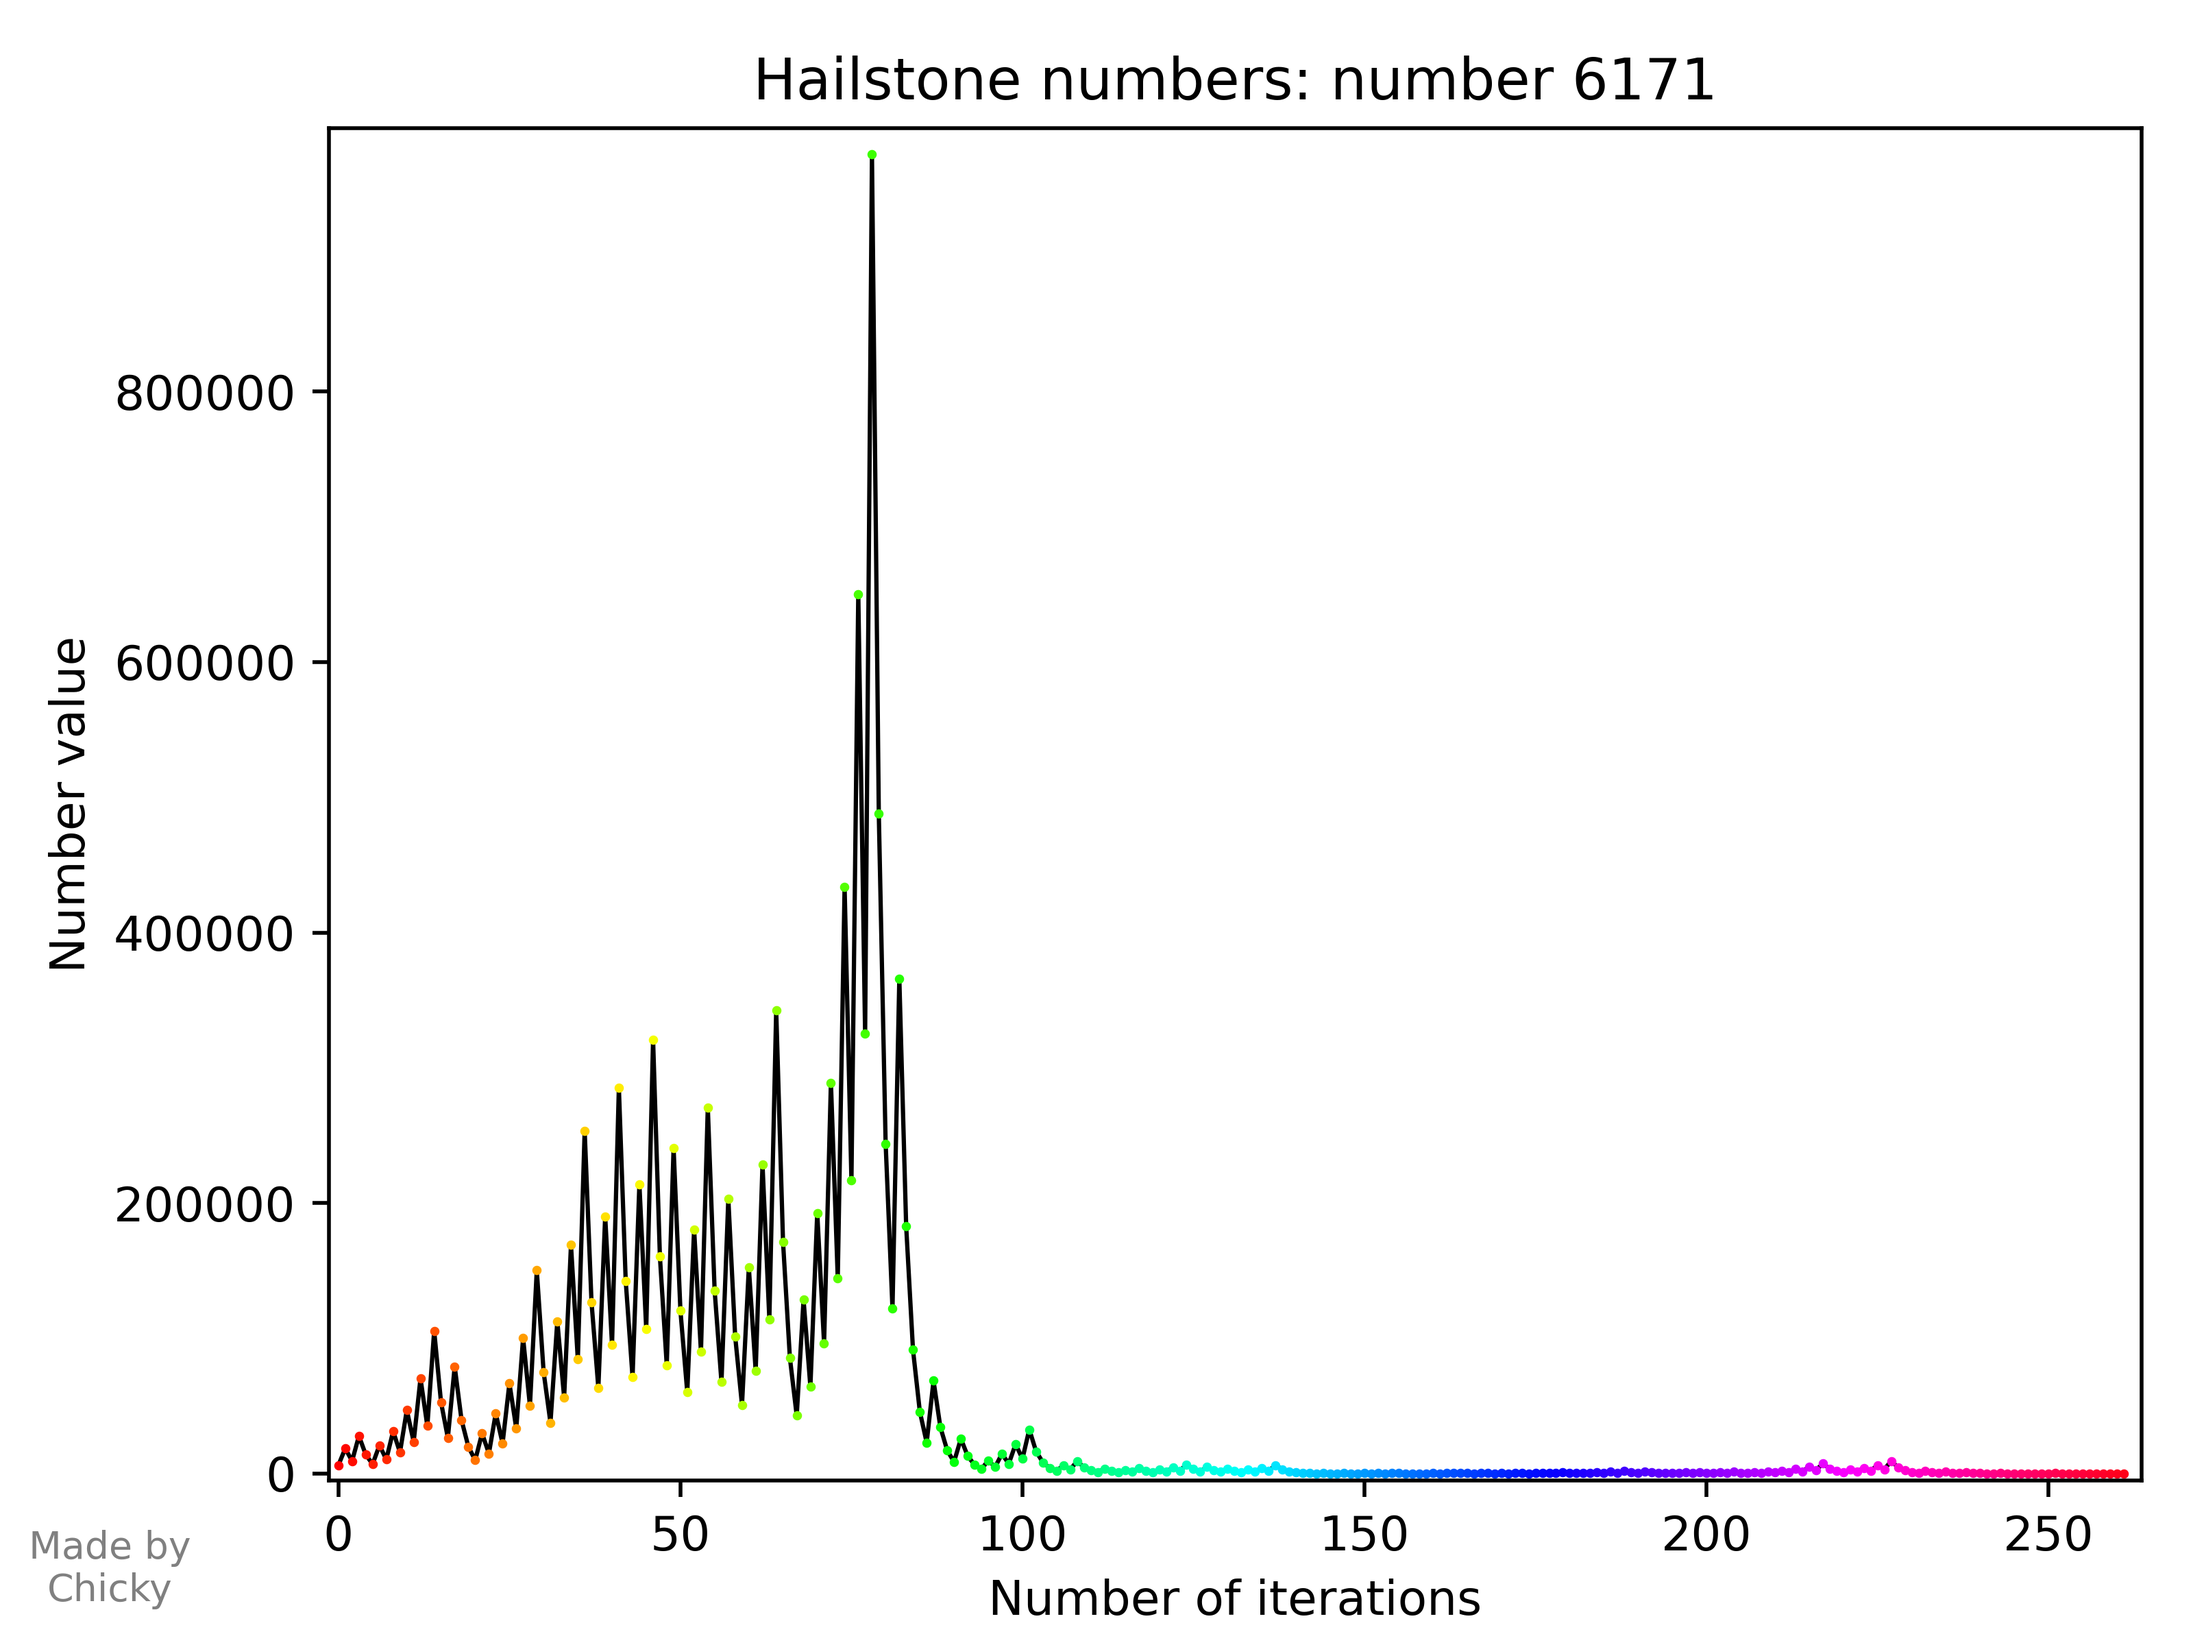
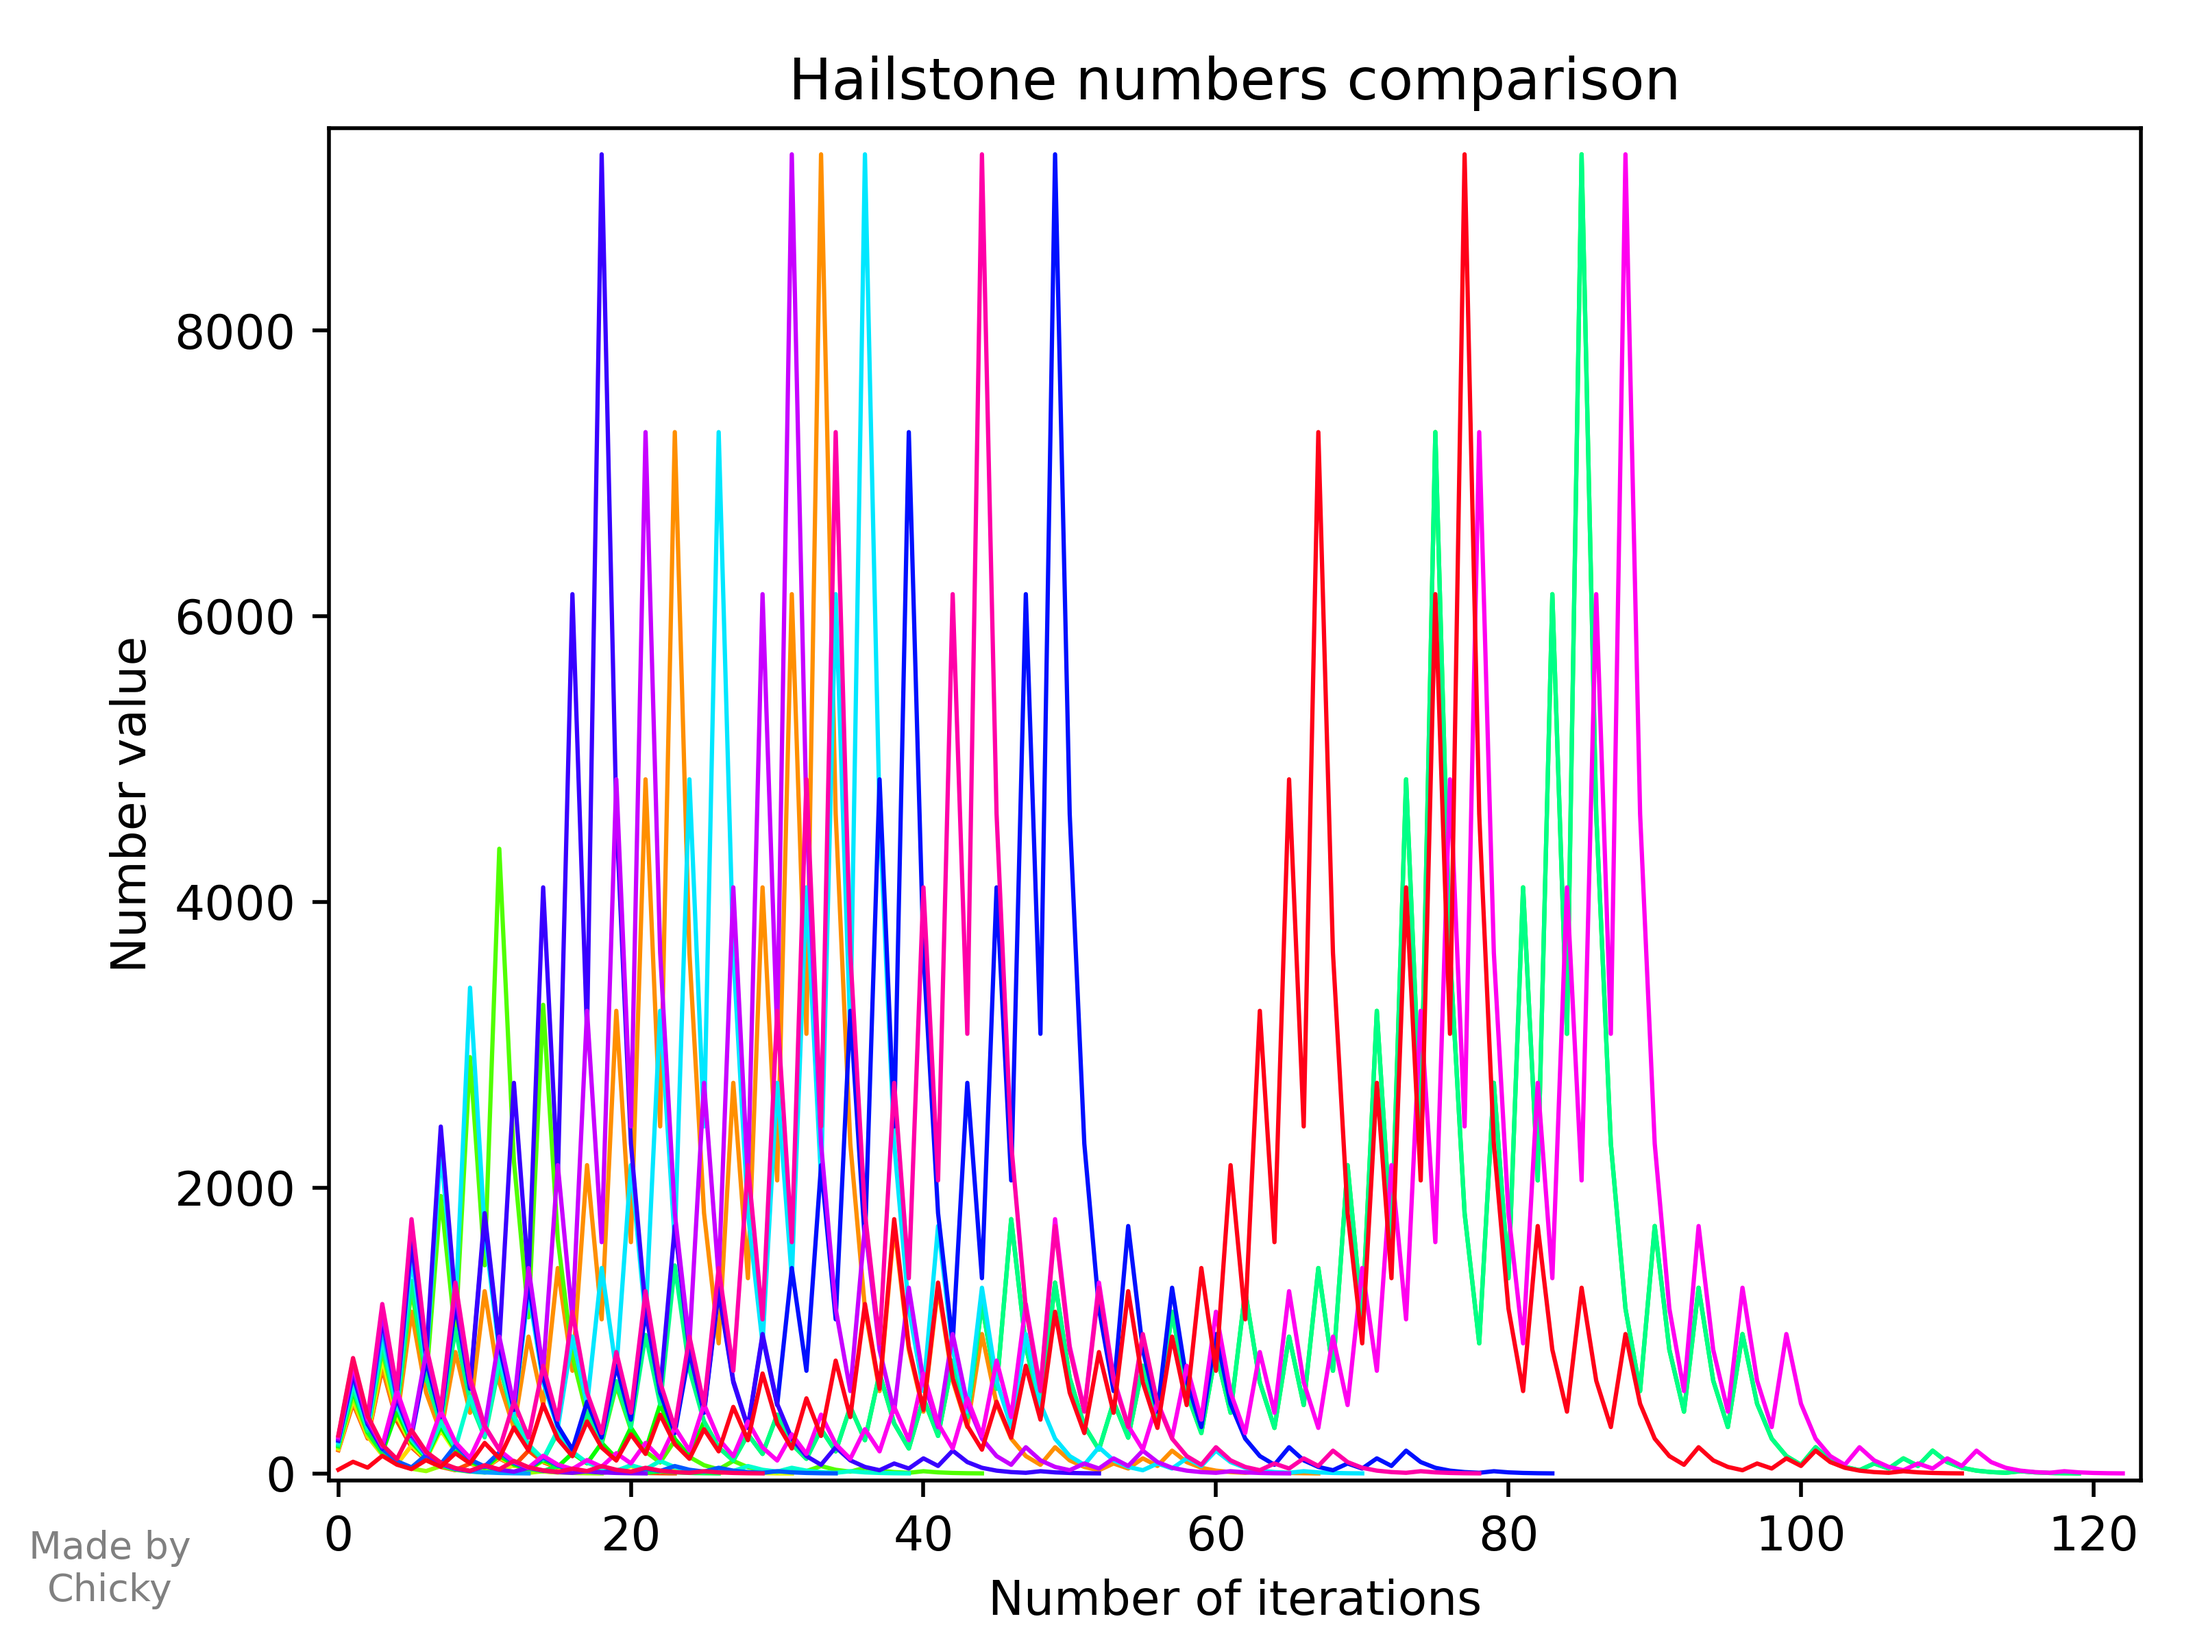
fnished project

diff --git a/main.py b/main.py
@@ -1,47 +1,64 @@
-import matplotlib as mpl 
+import matplotlib as mpl
 mpl.use('Agg')
-import matplotlib.pyplot as plt 
-n = 6171
+import matplotlib.pyplot as plt
+
 plt.xlabel('Number of iterations')
 plt.ylabel('Number value')
-plt.title('Hailstone numbers: number %i' % n)
+plt.title('Hailstone numbers comparison')
 
 def get_cmap(n, name='hsv'):
-    '''Returns a function that maps each index in 0, 1, ..., n-1 to a distinct 
-    RGB color; the keyword argument name must be a standard mpl colormap name.'''
     return plt.cm.get_cmap(name, n)
 
-count = 0
-Arr = [[0],[n]]
+maxlist = [[], []]
 
-while n > 1:
-    print(n)
-    if n % 2 == 0:
-        n = n / 2
-    else:
-        n = ((n * 3) + 1)
-    count += 1
-    Arr[0].insert(count,count)
-    Arr[1].insert(count,n)
-    
-print(n)
-x = Arr[0]
-y = Arr[1]
-plt.plot(x, y, 'k,-', linewidth=0.9)
+plotlist = [
+  163, 167, 173, 179, 181, 191, 193, 197, 199, 211, 223, 227, 229, 233, 239, 241, 251, 257, 263, 269, 27
+]
 
-cmap = get_cmap(len(x))
+PLlength = len(plotlist)
 
-for k in range(count + 1):
-  plt.plot(x[k],y[k],color=cmap(k), marker='.', markersize=1.9)
+def plot(n, color):
+    count = 0
+    Arr = [[0], [n]]
+    while n > 1:
+        if n % 2 == 0:
+            n = n / 2
+        else:
+            n = ((n * 3) + 1)
+        count += 1
+        Arr[0].insert(count, count)
+        Arr[1].insert(count, n)
 
-plt.xlim(left=-0.0053 * max(x))
-plt.xlim(right= 1.01 * max(x))
-plt.ylim(bottom=-0.0053 * max(y))
-plt.ylim(top=1.02 * max(y))
+    x = Arr[0]
+    y = Arr[1]
 
-txt="Made by Chicky"
+    plt.plot(x, y, ',-', linewidth=0.9, color=color)
+
+    maxlist[0].append(max(x))
+    maxlist[1].append(max(y))
+
+def plotall(colorparse):
+    cmap = get_cmap(colorparse + 1)
+  
+    for k in range(PLlength):
+        plot(plotlist[k], cmap(k + 1))
+
+    plt.xlim(left=-0.0053 * max(maxlist[0]))
+    plt.xlim(right=1.01 * max(maxlist[0]))
+    plt.ylim(bottom=-0.0053 * max(maxlist[1]))
+    plt.ylim(top=1.02 * max(maxlist[1]))
+
+plotall(PLlength)
+
+txt = "Made by Chicky"
 #first num is percent on x axis, second is y
-plt.figtext(0.05, 0.03, txt, wrap=True, horizontalalignment='center', fontsize=8, color="grey")
+plt.figtext(0.05,
+            0.03,
+            txt,
+            wrap=True,
+            horizontalalignment='center',
+            fontsize=8,
+            color="grey")
 
 plt.tight_layout()
 
@@ -49,4 +66,3 @@ dpi = 500
 plt.subplots_adjust(left=0.15, bottom=0.1)
 
 plt.savefig('graph.png', dpi=dpi)
-#plot multiple numbers on one graph later

diff --git a/origina.main.py b/origina.main.py
@@ -1,0 +1,51 @@
+import matplotlib as mpl 
+mpl.use('Agg')
+import matplotlib.pyplot as plt 
+n = 6171
+plt.xlabel('Number of iterations')
+plt.ylabel('Number value')
+plt.title('Hailstone numbers: number %i' % n)
+
+def get_cmap(n, name='hsv'):
+    '''Returns a function that maps each index in 0, 1, ..., n-1 to a distinct 
+    RGB color; the keyword argument name must be a standard mpl colormap name.'''
+    return plt.cm.get_cmap(name, n)
+
+count = 0
+Arr = [[0],[n]]
+
+while n > 1:
+    print(n)
+    if n % 2 == 0:
+        n = n / 2
+    else:
+        n = ((n * 3) + 1)
+    count += 1
+    Arr[0].insert(count,count)
+    Arr[1].insert(count,n)
+    
+print(n)
+x = Arr[0]
+y = Arr[1]
+plt.plot(x, y, 'k,-', linewidth=0.9)
+
+cmap = get_cmap(len(x))
+
+for k in range(count + 1):
+  plt.plot(x[k],y[k],color=cmap(k), marker='.', markersize=1.9)
+
+plt.xlim(left=-0.0053 * max(x))
+plt.xlim(right= 1.01 * max(x))
+plt.ylim(bottom=-0.0053 * max(y))
+plt.ylim(top=1.02 * max(y))
+
+txt="Made by Chicky"
+#first num is percent on x axis, second is y
+plt.figtext(0.05, 0.03, txt, wrap=True, horizontalalignment='center', fontsize=8, color="grey")
+
+plt.tight_layout()
+
+dpi = 500
+plt.subplots_adjust(left=0.15, bottom=0.1)
+
+plt.savefig('graph.png', dpi=dpi)
